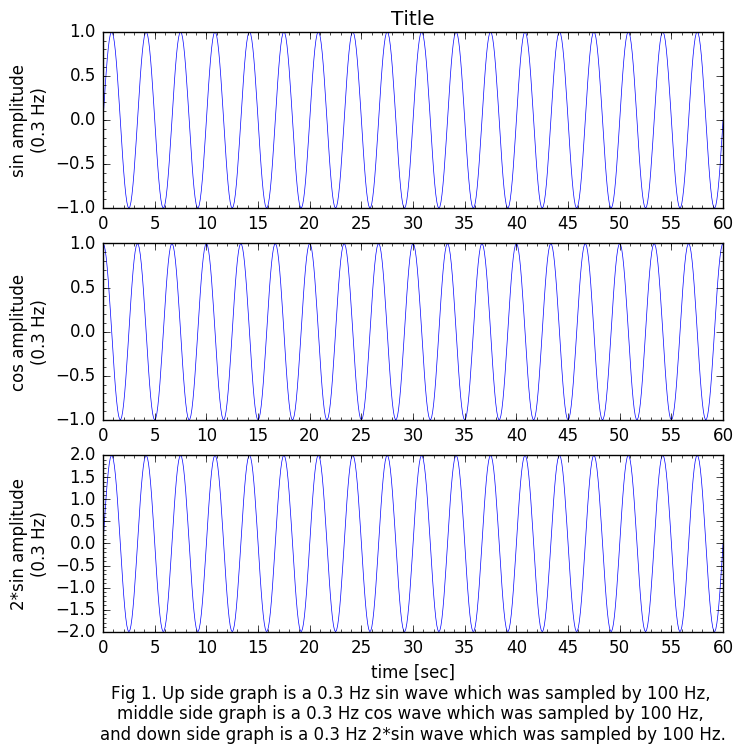
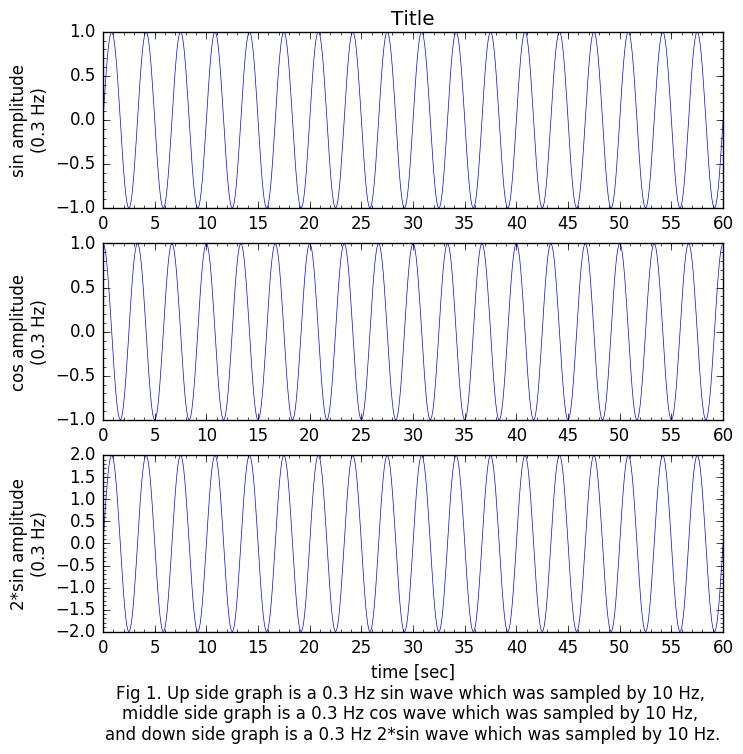
Add files via upload

Changed region(s): [[0.1238, 0.8846, 0.9596, 1.0]]

diff --git a/c2py_Ver00.03_00/plot.py b/c2py_Ver00.03_00/plot.py
@@ -49,7 +49,7 @@ def vec2graph_1(WriteName, X_interval, vec1):
     # グラフタイトル、X軸 Y軸のキャプション
     ax1.set_title("Title")
     ax1.set_ylabel("sin amplitude\n(0.3 Hz)")
-    ax1.set_xlabel("time [sec]\nFig 1. Up side graph is a 0.3 Hz sin wave which was sampled by 100 Hz.")
+    ax1.set_xlabel("time [sec]\nFig 1. Up side graph is a 0.3 Hz sin wave which was sampled by 10 Hz.")
 
     # グラフの保存
     plt.savefig(WriteName, bbox_inches="tight") # , dpi=100
@@ -70,7 +70,7 @@ def vec2graph_2(WriteName, X_interval, vec1, vec2):
     ax1.set_title("Title")
     ax1.set_ylabel("sin amplitude\n(0.3 Hz)")
     ax2.set_ylabel("cos amplitude\n(0.3 Hz)")
-    ax2.set_xlabel("time [sec]\nFig 1. Up side graph is a 0.3 Hz sin wave which was sampled by 100 Hz, \nand Down side graph is a 0.3 Hz cos wave which was sampled by 100 Hz.")
+    ax2.set_xlabel("time [sec]\nFig 1. Up side graph is a 0.3 Hz sin wave which was sampled by 10 Hz, \nand down side graph is a 0.3 Hz cos wave which was sampled by 10 Hz.")
 
     # グラフの保存
     plt.savefig(WriteName, bbox_inches="tight") # , dpi=100
@@ -94,7 +94,7 @@ def vec2graph_3(WriteName, X_interval, vec1, vec2, vec3):
     ax1.set_ylabel("sin amplitude\n(0.3 Hz)")
     ax2.set_ylabel("cos amplitude\n(0.3 Hz)")
     ax3.set_ylabel("2*sin amplitude\n(0.3 Hz)")
-    ax3.set_xlabel("time [sec]\nFig 1. Up side graph is a 0.3 Hz sin wave which was sampled by 100 Hz, \nmiddle side graph is a 0.3 Hz cos wave which was sampled by 100 Hz, \nand down side graph is a 0.3 Hz 2*sin wave which was sampled by 100 Hz.")
+    ax3.set_xlabel("time [sec]\nFig 1. Up side graph is a 0.3 Hz sin wave which was sampled by 10 Hz, \nmiddle side graph is a 0.3 Hz cos wave which was sampled by 10 Hz, \nand down side graph is a 0.3 Hz 2*sin wave which was sampled by 10 Hz.")
 
     # グラフの保存
     plt.savefig(WriteName, bbox_inches="tight") # , dpi=100

diff --git a/c2py_Ver00.03_00/main.cpp b/c2py_Ver00.03_00/main.cpp
@@ -41,9 +41,9 @@ void vec2graph_3(const char* pWriteName, double interval, std::vector<double>& i
 
 int main(){
 
-	double freq2generate = 0.3; // 3 Hz sin wave
-	double freq2sample = 10;    // 100 Hz sampling
-	uint len=60*10 + 1;         // 1 sec
+	double freq2generate = 0.3; //  3 Hz sin wave
+	double freq2sample = 10;    // 10 Hz sampling
+	uint len=60*10 + 1;         // 60 sec
 	std::vector<double> sin_wave = sstd::sinWave(freq2generate, freq2sample, len);
 	std::vector<double> cos_wave = sstd::cosWave(freq2generate, freq2sample, len);
 	std::vector<double> sin_2(len); for(uint i=0; i<len; i++){ sin_2[i]=2*sin_wave[i]; }
